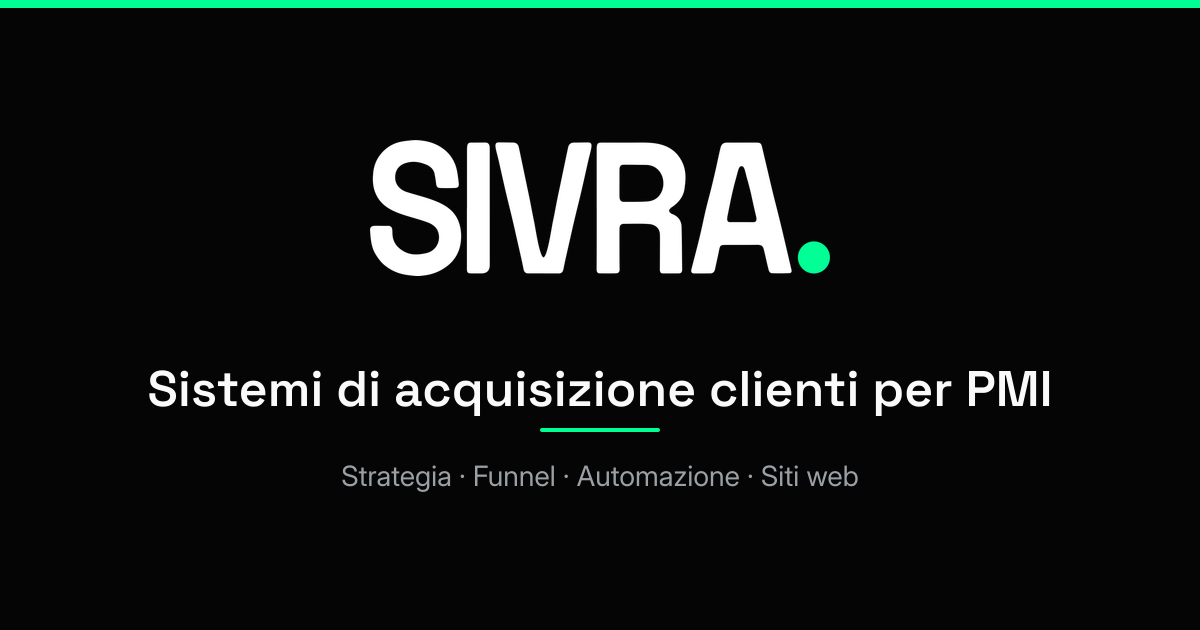
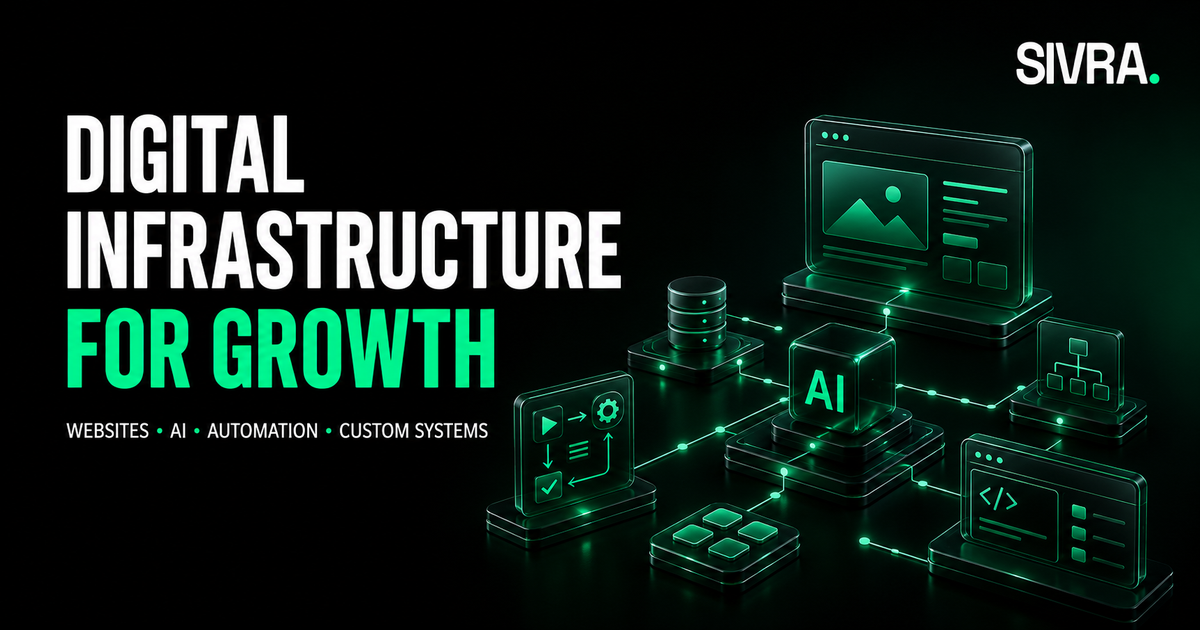
feat(seo): aggiorna Open Graph e posizionamento

diff --git a/index.html b/index.html
@@ -5,8 +5,8 @@
     <meta name="viewport" content="width=device-width, initial-scale=1.0" />
     <link rel="preload" href="/fonts/inter-latin.woff2" as="font" type="font/woff2" crossorigin />
     <link rel="preload" href="/fonts/spacegrotesk-latin.woff2" as="font" type="font/woff2" crossorigin />
-    <title>Agenzia di Marketing Digitale per PMI — SIVRA</title>
-    <meta name="description" content="SIVRA costruisce sistemi di acquisizione clienti per imprenditori e PMI italiane. Strategia, funnel, automazione CRM. Analisi gratuita in 30 minuti." />
+    <title>SIVRA — Siti web, AI, automazioni e sistemi digitali</title>
+    <meta name="description" content="SIVRA connette siti web, dati, integrazioni AI, automazioni e sistemi custom in un’unica infrastruttura digitale." />
     <link rel="canonical" href="https://sivragp.com/" />
     <meta property="og:site_name" content="SIVRA" />
     <meta property="og:locale" content="it_IT" />

diff --git a/src/pages/Home.tsx b/src/pages/Home.tsx
@@ -49,8 +49,8 @@ export function Home() {
   return (
     <PageTransition>
       <Seo
-        title="Agenzia di Marketing Digitale per PMI — SIVRA"
-        description="SIVRA costruisce sistemi di acquisizione clienti per imprenditori e PMI italiane. Strategia, funnel, automazione CRM. Analisi gratuita in 30 minuti."
+        title="SIVRA — Siti web, AI, automazioni e sistemi digitali"
+        description="SIVRA connette siti web, dati, integrazioni AI, automazioni e sistemi custom in un’unica infrastruttura digitale."
         path="/"
         jsonLd={[faqPage(homeFaqs)]}
       />